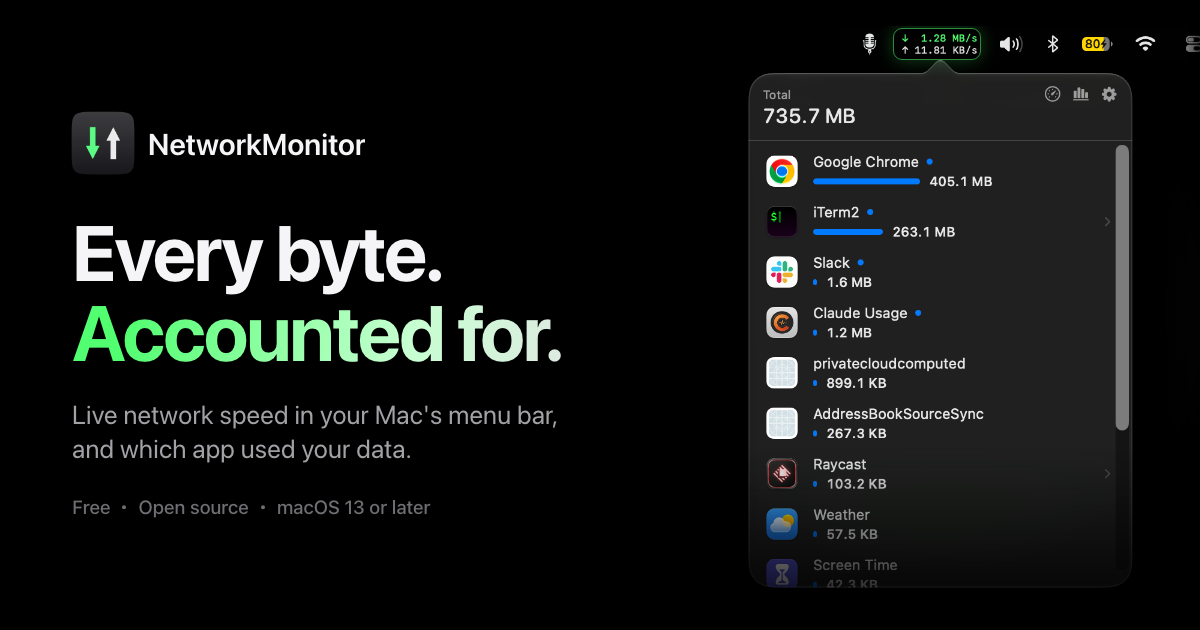
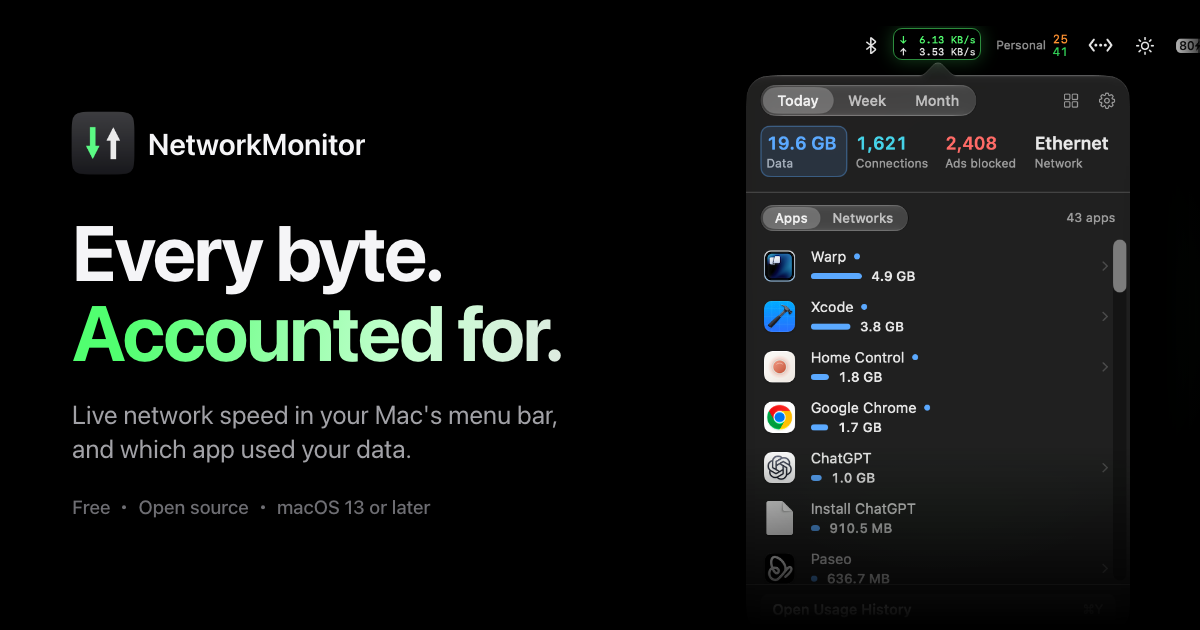
The link-sharing cards show the 1.28 popover (#420)
- assets/social-card.png and assets/zh-Hans/social-card.png: rendered from
  new captures of the installed 1.28.1's menu bar and popover, each in its
  language (Resources/Social on main, #472). Same layout, 1200×630.
- og:image:alt and twitter:image:alt rewritten on both pages from what the
  card shows, describing the interface rather than the apps in the list.
- `make site-shots NAMES=popover`: the popover's record is today's window
  (popover.txt, popover.made.txt), and the cards' ?v= stamps are new.
- Both cards `made` 1.28.1, `stale` taken out. The popover's made-record is
  dated 1.28.0 by hand: 1.28.1 changed only focus rings (#452), so the
  1.28.0 recordings (live.mp4) match it.
- brag-poster.jpg shows the 1.26.7 popover: `stale: #458`, with brag.mp4.

Changed region(s): [[0.6167, 0.0302, 1.0, 0.9349]]

diff --git a/zh/index.html b/zh/index.html
@@ -20,16 +20,16 @@
 <meta property="og:title" content="NetworkMonitor — 每个字节，一清二楚">
 <meta property="og:description" content="在 Mac 菜单栏中查看实时网速，按应用细看流量用在了哪里，使用热点时暂停更新。免费且开源。">
 <meta property="og:url" content="https://kevinabouhanna.github.io/NetworkMonitor/zh/">
-<meta property="og:image" content="https://kevinabouhanna.github.io/NetworkMonitor/assets/zh-Hans/social-card.png?v=3b98c6de">
+<meta property="og:image" content="https://kevinabouhanna.github.io/NetworkMonitor/assets/zh-Hans/social-card.png?v=572abf52">
 <meta property="og:image:type" content="image/png">
 <meta property="og:image:width" content="1200">
 <meta property="og:image:height" content="630">
-<meta property="og:image:alt" content="NetworkMonitor。每个字节，一清二楚。在 Mac 菜单栏中显示实时网速，以及哪个应用用了你的流量。免费、开源，适用于 macOS 13 或更高版本。旁边是真实的应用：菜单栏中的读数和弹出窗口，按用量列出 Google Chrome、Paseo、Visual Studio Code 等应用，全部为中文界面。">
+<meta property="og:image:alt" content="NetworkMonitor。每个字节，一清二楚。在 Mac 菜单栏中显示实时网速，以及哪个应用用了你的流量。免费、开源，适用于 macOS 13 或更高版本。旁边是真实的应用：菜单栏中的读数和弹出窗口，上方是今天的数据、连接、已拦截和网络，下方按用量列出各个应用，全部为中文界面。">
 <meta name="twitter:card" content="summary_large_image">
 <meta name="twitter:title" content="NetworkMonitor — 每个字节，一清二楚">
 <meta name="twitter:description" content="在 Mac 菜单栏中查看实时网速，按应用细看流量用在了哪里，使用热点时暂停更新。免费且开源。">
-<meta name="twitter:image" content="https://kevinabouhanna.github.io/NetworkMonitor/assets/zh-Hans/social-card.png?v=3b98c6de">
-<meta name="twitter:image:alt" content="NetworkMonitor。每个字节，一清二楚。在 Mac 菜单栏中显示实时网速，以及哪个应用用了你的流量。免费、开源，适用于 macOS 13 或更高版本。旁边是真实的应用：菜单栏中的读数和弹出窗口，按用量列出 Google Chrome、Paseo、Visual Studio Code 等应用，全部为中文界面。">
+<meta name="twitter:image" content="https://kevinabouhanna.github.io/NetworkMonitor/assets/zh-Hans/social-card.png?v=572abf52">
+<meta name="twitter:image:alt" content="NetworkMonitor。每个字节，一清二楚。在 Mac 菜单栏中显示实时网速，以及哪个应用用了你的流量。免费、开源，适用于 macOS 13 或更高版本。旁边是真实的应用：菜单栏中的读数和弹出窗口，上方是今天的数据、连接、已拦截和网络，下方按用量列出各个应用，全部为中文界面。">
 <script>document.documentElement.classList.add('js')</script>
 <script>
 // The page in the browser's language (#430): Chinese readers are sent to the

diff --git a/index.html b/index.html
@@ -20,16 +20,16 @@
 <meta property="og:title" content="NetworkMonitor — every byte, accounted for">
 <meta property="og:description" content="Live network speed in your Mac's menu bar, a per-app breakdown of your data, and updates paused on hotspots. Free and open source.">
 <meta property="og:url" content="https://kevinabouhanna.github.io/NetworkMonitor/">
-<meta property="og:image" content="https://kevinabouhanna.github.io/NetworkMonitor/assets/social-card.png?v=6d645350">
+<meta property="og:image" content="https://kevinabouhanna.github.io/NetworkMonitor/assets/social-card.png?v=e878d773">
 <meta property="og:image:type" content="image/png">
 <meta property="og:image:width" content="1200">
 <meta property="og:image:height" content="630">
-<meta property="og:image:alt" content="NetworkMonitor. Every byte. Accounted for. Live network speed in your Mac's menu bar, and which app used your data. Free, open source, macOS 13 or later. Beside it, the real app: its menu bar readout and popover, listing Google Chrome, iTerm2, Slack and more by how much data each used.">
+<meta property="og:image:alt" content="NetworkMonitor. Every byte. Accounted for. Live network speed in your Mac's menu bar, and which app used your data. Free, open source, macOS 13 or later. Beside it, the real app: its menu bar readout and popover, with today's data, connections, ads blocked and network above a list of apps by how much data each used.">
 <meta name="twitter:card" content="summary_large_image">
 <meta name="twitter:title" content="NetworkMonitor — every byte, accounted for">
 <meta name="twitter:description" content="Live network speed in your Mac's menu bar, a per-app breakdown of your data, and updates paused on hotspots. Free and open source.">
-<meta name="twitter:image" content="https://kevinabouhanna.github.io/NetworkMonitor/assets/social-card.png?v=6d645350">
-<meta name="twitter:image:alt" content="NetworkMonitor. Every byte. Accounted for. Live network speed in your Mac's menu bar, and which app used your data. Free, open source, macOS 13 or later. Beside it, the real app: its menu bar readout and popover, listing Google Chrome, iTerm2, Slack and more by how much data each used.">
+<meta name="twitter:image" content="https://kevinabouhanna.github.io/NetworkMonitor/assets/social-card.png?v=e878d773">
+<meta name="twitter:image:alt" content="NetworkMonitor. Every byte. Accounted for. Live network speed in your Mac's menu bar, and which app used your data. Free, open source, macOS 13 or later. Beside it, the real app: its menu bar readout and popover, with today's data, connections, ads blocked and network above a list of apps by how much data each used.">
 <script>document.documentElement.classList.add('js')</script>
 <script>
 // The page in the browser's language (#430): Chinese readers are sent to the
